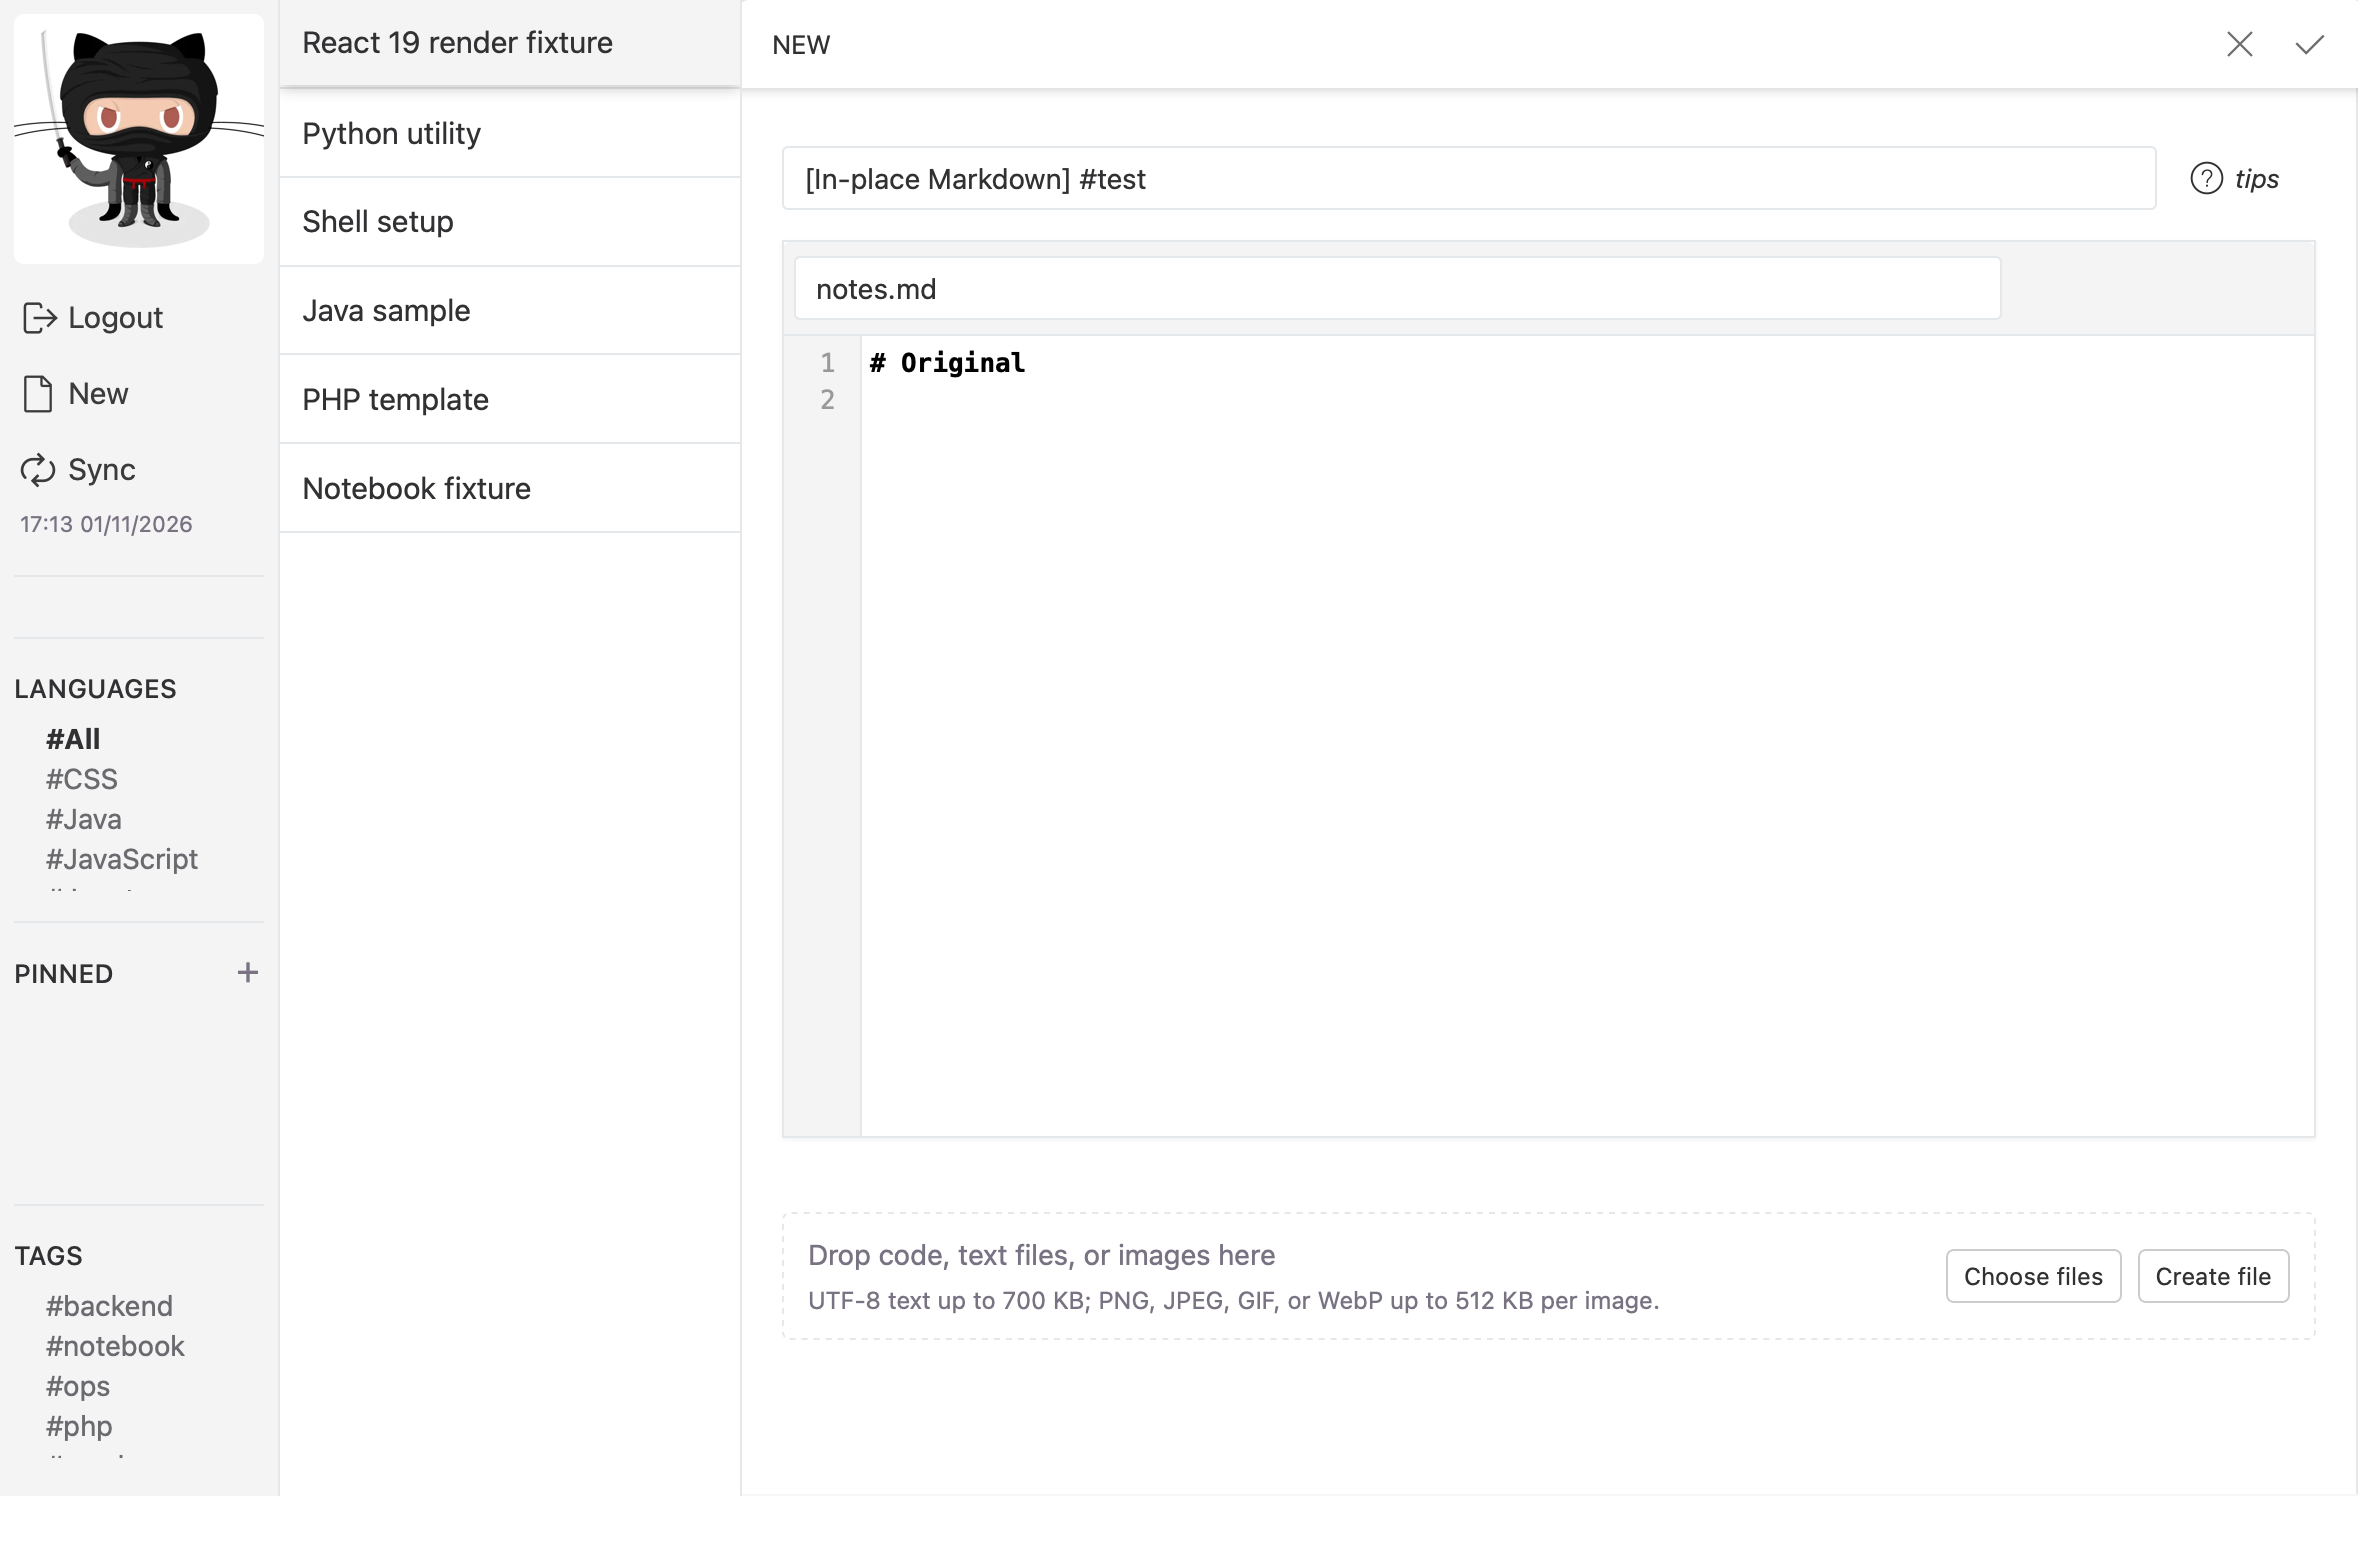
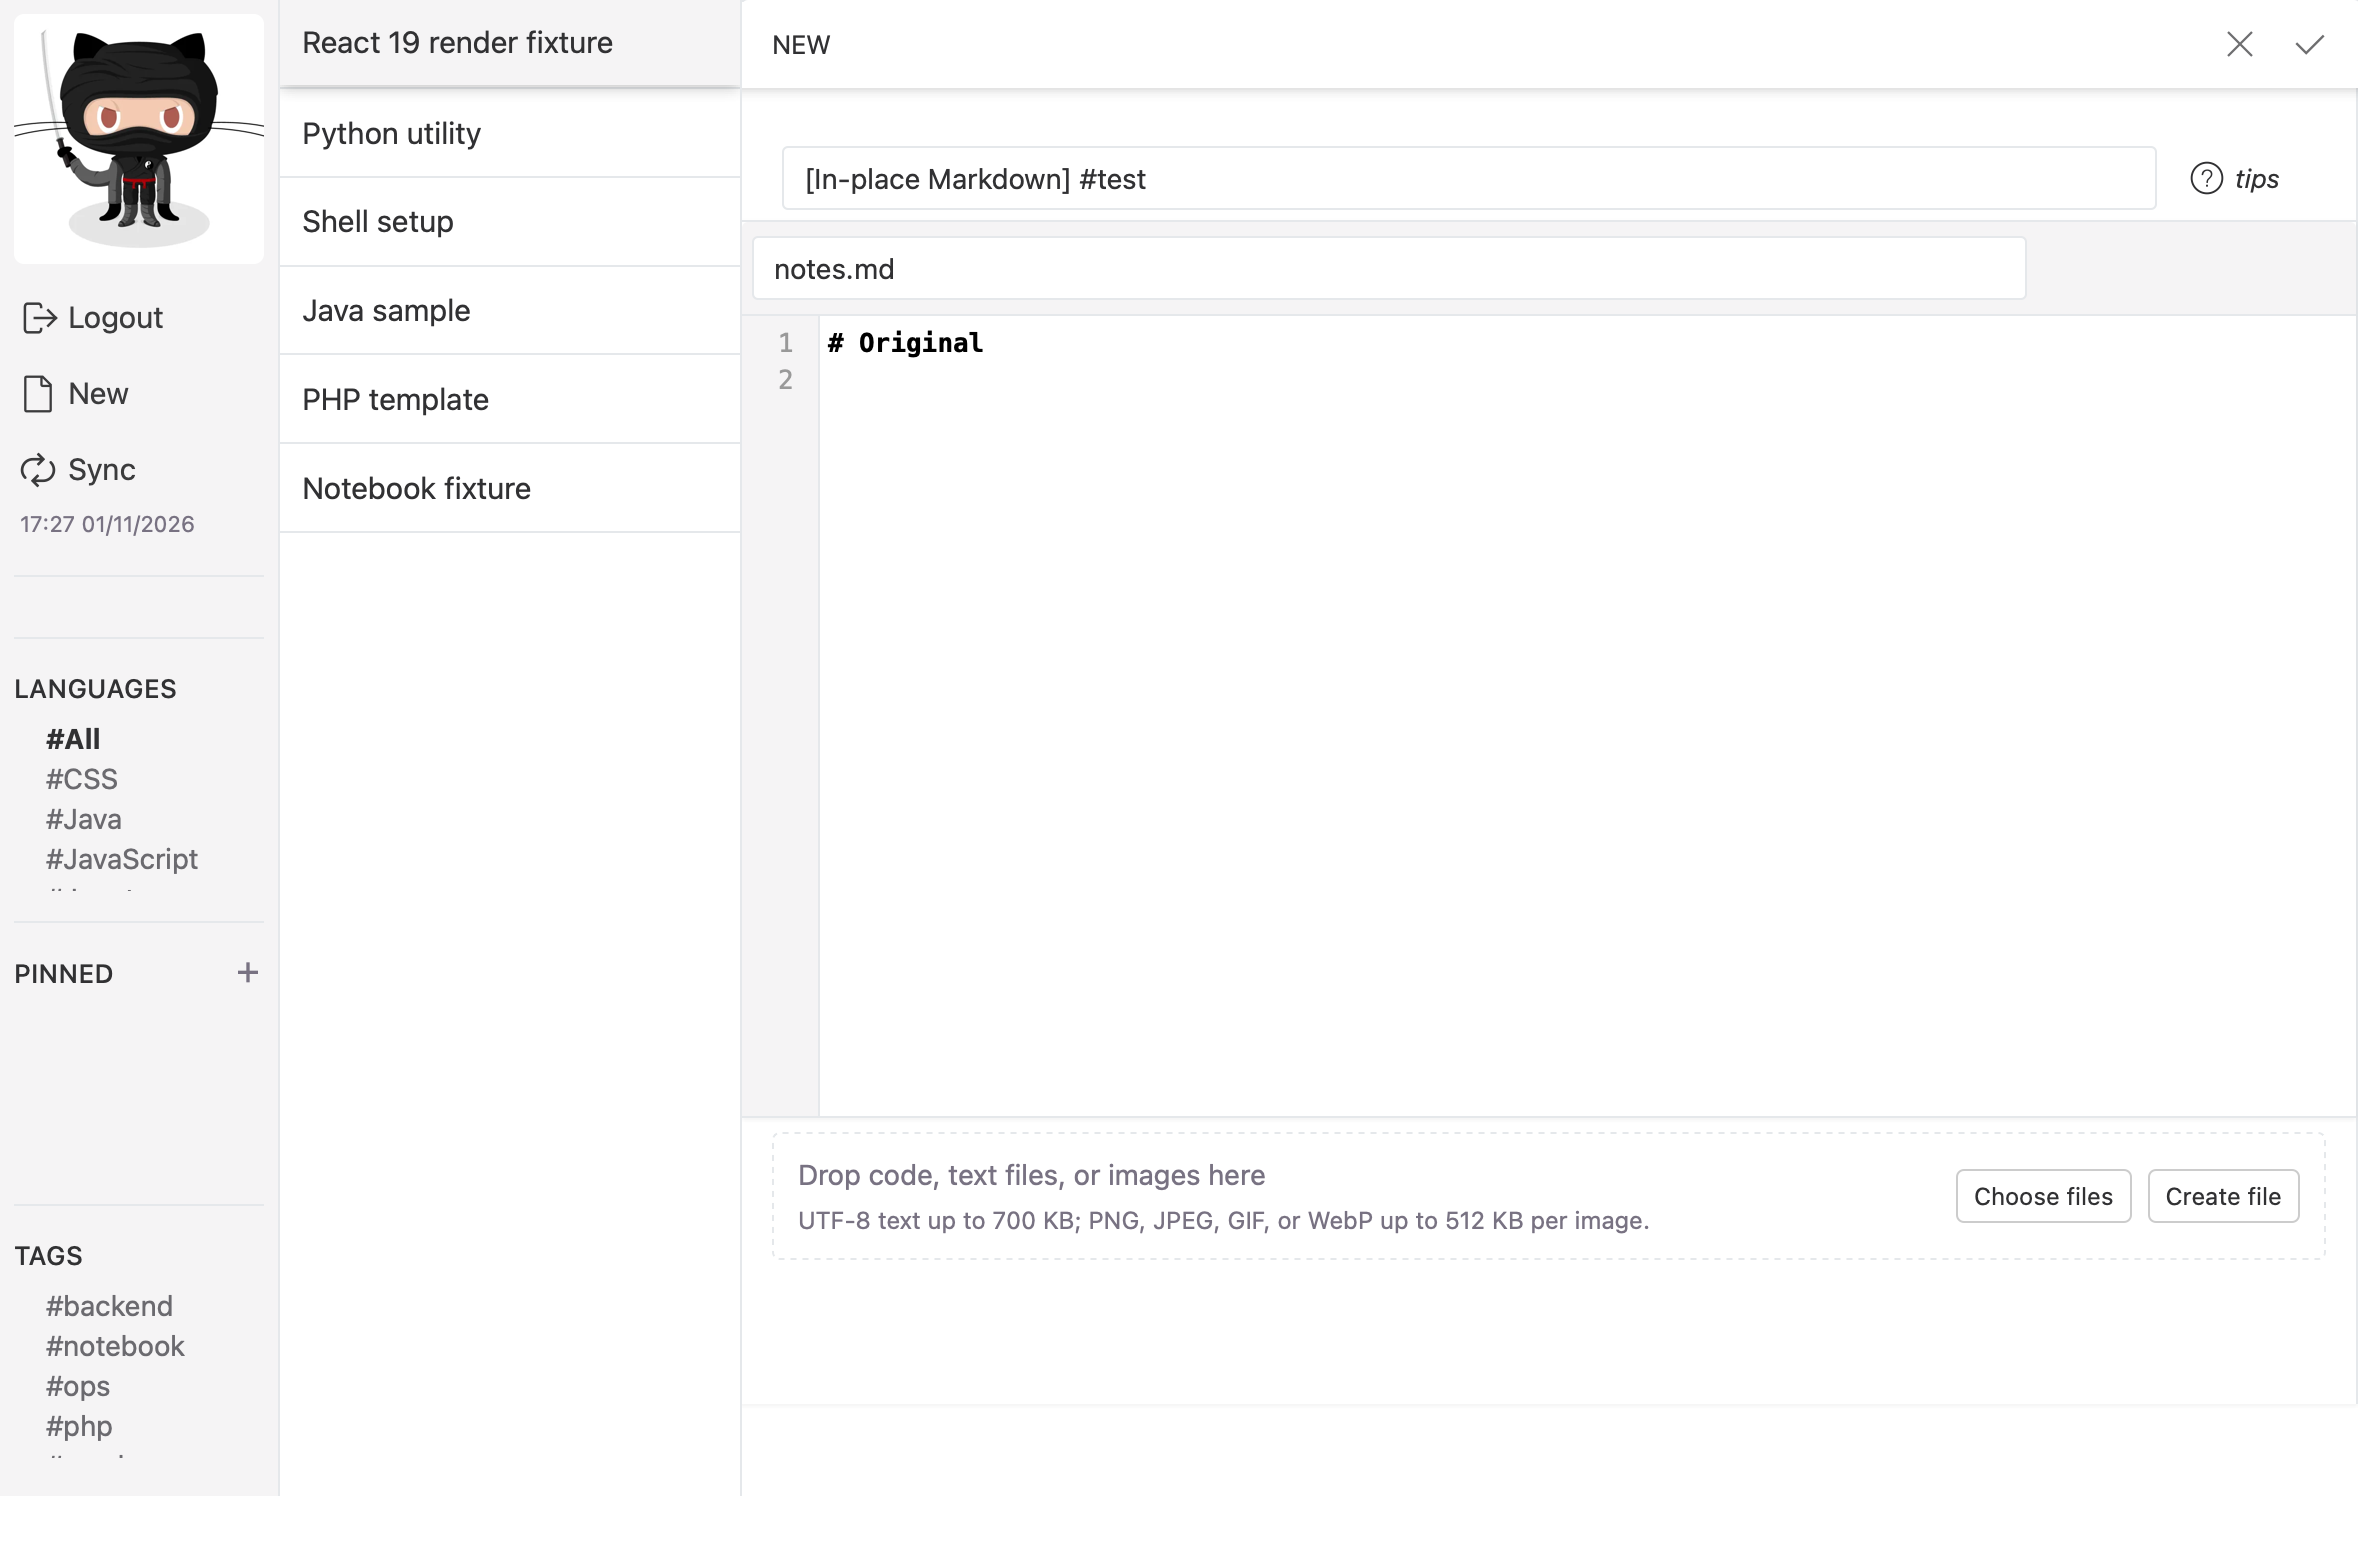
Align in-place editors with the detail pane

Changed region(s): [[0.3403, 0.7077, 0.9898, 0.8615], [0.3093, 0.1538, 0.8352, 0.2462], [0.0309, 0.3077, 0.0619, 0.3385]]

diff --git a/prototypes/tauri/legacy/local.css b/prototypes/tauri/legacy/local.css
@@ -20,7 +20,19 @@ body[data-provider='local'] .gist-editor-privacy-checkbox { display: none !impor
 
 body.lepton-creating-snippet .snippet-panel-content > :not(.inline-new-editor) { display: none; }
 .inline-form-edit .gist-editor-form,
-.inline-new-editor .gist-editor-form { padding: 12px 15px 20px; }
+.inline-new-editor .gist-editor-form { padding: 12px 0 20px; }
+.inline-form-edit .gist-editor-form > .gist-editor-name,
+.inline-new-editor .gist-editor-form > .gist-editor-name { margin: 5px 20px; }
+.inline-form-edit .gist-editor-form > .gist-editor-section:not(.gist-editor-name),
+.inline-new-editor .gist-editor-form > .gist-editor-section:not(.gist-editor-name) { margin: 0; }
+.inline-form-edit .gist-editor-form .gist-editor-gist-file,
+.inline-new-editor .gist-editor-form .gist-editor-gist-file { padding: 0 !important; }
+.inline-form-edit .gist-editor-form .gist-editor-gist-file > .panel,
+.inline-new-editor .gist-editor-form .gist-editor-gist-file > .panel { margin-bottom: 0; border-left: 0; border-right: 0; }
+.inline-form-edit .gist-editor-form .image-attachment-drop-zone,
+.inline-new-editor .gist-editor-form .image-attachment-drop-zone { margin: 8px 15px 0; }
+.inline-form-edit .gist-editor-form .gist-editor-privacy-checkbox,
+.inline-new-editor .gist-editor-form .gist-editor-privacy-checkbox { margin-right: 15px; }
 .snippet-box .gist-editor-form .panel-body { margin-top: 0; }
 .inline-form-edit .gist-editor-form .control-button-group .gist-editor-control-button,
 .inline-new-editor .gist-editor-form .control-button-group .gist-editor-control-button { display: none; }
